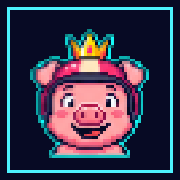
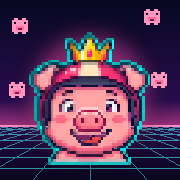
Nouvelle icône pleine page (héros sur horizon néon, sans cadre) ; pas de plein écran dans Ludiworld

diff --git a/docs/sw.js b/docs/sw.js
@@ -1,4 +1,4 @@
-const V = 'pdc-98c1d75252';
+const V = 'pdc-109dce382d';
 const F = ["./", "index.html", "manifest.webmanifest", "icon-180.png", "icon-192.png", "icon-512.png", "music/course.mp3", "music/menu.mp3"];
 self.addEventListener('install', e => { e.waitUntil(caches.open(V).then(c => c.addAll(F)).then(() => self.skipWaiting())); });
 self.addEventListener('activate', e => { e.waitUntil(caches.keys().then(k => Promise.all(k.filter(x => x !== V).map(x => caches.delete(x)))).then(() => self.clients.claim())); });

diff --git a/docs/index.html b/docs/index.html
@@ -1516,6 +1516,7 @@ function iconePleinEcran(c, w, h) {
 }
 function boutonPleinEcran(x, y, t) {
   if (AUTONOME && !document.fullscreenEnabled) return;   // appli installée : déjà en plein écran
+  if (DANS_LUDI) return;                                 // dans Ludiworld, c'est Ludiworld qui décide du plein écran
   bouton('pleinecran', x, y, t, t, { couleur: C.violet, dessin: iconePleinEcran }, basculerPleinEcran);
 }
 

diff --git a/src/game.js b/src/game.js
@@ -284,6 +284,7 @@ function iconePleinEcran(c, w, h) {
 }
 function boutonPleinEcran(x, y, t) {
   if (AUTONOME && !document.fullscreenEnabled) return;   // appli installée : déjà en plein écran
+  if (DANS_LUDI) return;                                 // dans Ludiworld, c'est Ludiworld qui décide du plein écran
   bouton('pleinecran', x, y, t, t, { couleur: C.violet, dessin: iconePleinEcran }, basculerPleinEcran);
 }
 

diff --git a/build.py b/build.py
@@ -39,17 +39,50 @@ def page(pwa):
     return h
 
 def icones(dossier):
-    from PIL import Image, ImageDraw
+    """Icônes de l'appli : le héros en gros pixels sur un horizon néon, pleine page, sans cadre
+    (elles restent belles quand le téléphone ou Ludiworld arrondissent les coins)."""
+    from PIL import Image, ImageDraw, ImageFilter
     hero = Image.open(os.path.join(ICI, 'assets/img/heros.png')).convert('RGBA')
-    for taille in (180, 192, 512):
-        im = Image.new('RGBA', (taille, taille), (7, 10, 36, 255))
+
+    def lerp(a, b, k): return tuple(round(a[i] + (b[i] - a[i]) * k) for i in range(3))
+
+    def petit_cochon(d, x, y, s):
+        motif = ['.XX..XX.', 'XXXXXXXX', 'XOXXXXOX', 'XXXXXXXX', 'XXNNNNXX', 'XXNFFNXX', 'XXXXXXXX', '.XX..XX.']
+        couleurs = {'X': (255, 150, 190), 'O': (20, 10, 40), 'N': (255, 110, 160), 'F': (120, 30, 70)}
+        for j, ligne in enumerate(motif):
+            for i, ch in enumerate(ligne):
+                if ch != '.': d.rectangle([x + i * s, y + j * s, x + i * s + s - 1, y + j * s + s - 1], fill=couleurs[ch])
+
+    for n in (180, 192, 512):
+        im = Image.new('RGB', (n, n))
         d = ImageDraw.Draw(im)
-        e = taille // 24
-        d.rectangle([e, e, taille - e - 1, taille - e - 1], outline=(77, 243, 255, 255), width=max(3, taille // 64))
-        s = int(taille * 0.72)
-        h = hero.resize((s, s), Image.NEAREST)
-        im.alpha_composite(h, ((taille - s) // 2, (taille - s) // 2 + taille // 40))
-        im.save(os.path.join(dossier, 'icon-%d.png' % taille))
+        hz = int(n * 0.70)  # ligne d'horizon
+        for y in range(n):
+            if y < hz:
+                k = y / hz
+                c = lerp((6, 8, 34), (40, 12, 78), min(1, k * 1.25)) if k < .8 else lerp((40, 12, 78), (255, 79, 163), (k - .8) / .2 * .55)
+            else:
+                c = lerp((40, 10, 70), (8, 6, 30), (y - hz) / (n - hz))
+            d.line([(0, y), (n, y)], fill=c)
+        sol = Image.new('RGBA', (n, n), (0, 0, 0, 0))
+        ds = ImageDraw.Draw(sol)
+        for i in range(1, 9):
+            y = hz + (n - hz) * (i / 8) ** 1.8
+            ds.line([(0, y), (n, y)], fill=(77, 243, 255, 150), width=max(1, n // 256))
+        for i in range(-9, 10):
+            ds.line([(n / 2 + i * n * 0.05, hz), (n / 2 + i * n * 0.32, n)], fill=(77, 243, 255, 130), width=max(1, n // 256))
+        im.paste(sol, (0, 0), sol)
+        d.line([(0, hz), (n, hz)], fill=(255, 140, 200), width=max(2, n // 128))
+        halo = Image.new('RGBA', (n, n), (0, 0, 0, 0))
+        ImageDraw.Draw(halo).ellipse([n * .14, n * .16, n * .86, n * .88], fill=(255, 79, 163, 120))
+        halo = halo.filter(ImageFilter.GaussianBlur(n // 14))
+        im.paste(halo, (0, 0), halo)
+        for fx, fy, div in ((.07, .10, 128), (.80, .05, 128), (.84, .40, 170), (.05, .46, 170)):
+            petit_cochon(d, int(n * fx), int(n * fy), max(2, n // div))
+        t = int(n * 0.74)
+        h = hero.resize((t, t), Image.NEAREST)
+        im.paste(h, ((n - t) // 2, int(n * 0.92) - t), h)
+        im.save(os.path.join(dossier, 'icon-%d.png' % n))
 
 def main():
     if '--pwa' in sys.argv:
